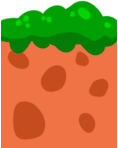
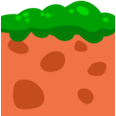
update pit and boxes bg

diff --git a/src/app/scenes/utils.ts b/src/app/scenes/utils.ts
@@ -1,4 +1,3 @@
-import gsap from "gsap";
 import * as PIXI from "pixi.js";
 import { appConfig } from "../../app";
 import { Character } from "../entities/character/character";
@@ -38,64 +37,36 @@ const cloudsData = [
 ];
 
 export function initGameScene(container: Game) {
-  const topBar = new TopBarContainer(0, 0, window.innerWidth, appConfig.constants.BASE_SIZE);
-  const character = new Character(container, 0, appConfig.constants.APP_HEIGHT - appConfig.constants.GROUND_HEIGHT - appConfig.constants.BASE_SIZE, 1, 1, "assets/img/character.png");
-  const ground = new Ground(container);
-  const finishLine = createSpriteFromImage(
-    "assets/img/finish-line.png",
-    appConfig.constants.BASE_SIZE,
-    appConfig.constants.APP_HEIGHT / 2,
-    appConfig.constants.GAME_WIDTH - window.screen.width - appConfig.constants.BASE_SIZE * 3,
-    appConfig.constants.APP_HEIGHT / 2 - appConfig.constants.GROUND_HEIGHT
-  );
+  const { APP_HEIGHT, APP_WIDTH, BASE_SIZE, GROUND_HEIGHT, GAME_WIDTH, STAGE_SIZE } = appConfig.constants;
 
-  const clouds: PIXI.Sprite[] = cloudsData.map((item: CloudConfig, index) => {
-    return new Cloud(container.width, item, index).sprite;
-  });
+  const topBar = new TopBarContainer(0, 0, window.innerWidth, BASE_SIZE);
+  const character = new Character(container, 0, APP_HEIGHT - GROUND_HEIGHT - BASE_SIZE, 1, 1, "assets/img/character.png");
+  const ground = new Ground(container);
+  const finishLine = createSpriteFromImage("assets/img/finish-line.png", BASE_SIZE, APP_HEIGHT / 2, GAME_WIDTH - APP_WIDTH - BASE_SIZE * 3, APP_HEIGHT / 2 - GROUND_HEIGHT);
+
+  const clouds: PIXI.Sprite[] = cloudsData.map((item: CloudConfig, index) => new Cloud(GAME_WIDTH, item, index).sprite);
   const background = createSpriteFromImage("assets/img/base-bg.jpg", appConfig.constants.GAME_WIDTH, appConfig.constants.APP_HEIGHT, 0, 0);
-  const mountains = [
-    createSpriteFromImage("assets/img/mountain.png", appConfig.constants.GAME_WIDTH / 4, appConfig.constants.APP_HEIGHT / 2, 0, 100),
-    createSpriteFromImage("assets/img/mountain.png", appConfig.constants.GAME_WIDTH / 4, appConfig.constants.APP_HEIGHT / 2, appConfig.constants.GAME_WIDTH * 0.25, 100),
-    createSpriteFromImage("assets/img/mountain.png", appConfig.constants.GAME_WIDTH / 4, appConfig.constants.APP_HEIGHT / 2, appConfig.constants.GAME_WIDTH * 0.5, 100),
-    createSpriteFromImage("assets/img/mountain.png", appConfig.constants.GAME_WIDTH / 4, appConfig.constants.APP_HEIGHT / 2, appConfig.constants.GAME_WIDTH * 0.75, 100),
-  ];
+  const mountains = createMountains(GAME_WIDTH, STAGE_SIZE);
 
   container.character = character;
   container.topBar = topBar;
 
-  container.addChild(background, ...mountains, ground.sprite, ...clouds, topBar, finishLine);
+  container.addChild(background, ...mountains, ...ground.sprites, ...clouds, topBar, finishLine);
   ground.addPitsAndBoxes();
 
   return { container, background, mountains, clouds, character, ground, topBar, finishLine };
 }
 
 export function initMenuScene(container: PIXI.Container, toggleFullScreenCallback: () => void, startGameCallback: () => void) {
-  const sun = new PIXI.Graphics();
-  sun.beginFill(0xffff00);
-  sun.drawCircle(0, 0, appConfig.constants.BASE_SIZE * 0.75);
-  sun.endFill();
-  sun.x = appConfig.constants.BASE_SIZE * 1;
-  sun.y = appConfig.constants.BASE_SIZE * 1;
+  const { APP_HEIGHT, APP_WIDTH, BASE_SIZE, GROUND_HEIGHT, GROUND_LEVEL } = appConfig.constants;
+  const sun = createSun();
+  const background = createSpriteFromImage("assets/img/base-bg.jpg", APP_WIDTH, APP_HEIGHT, 0, 0);
+  const mountains = createMountains(APP_WIDTH, 2);
 
-  gsap.to(sun, { duration: 2, rotation: Math.PI * 2, ease: "power1.inOut", repeat: -1 });
+  const ground = createSpriteFromImage("assets/img/ground.png", APP_WIDTH, GROUND_HEIGHT, 0, GROUND_LEVEL);
+  const characterIcon = createSpriteFromImage("assets/img/character-icon.png", BASE_SIZE * 2, BASE_SIZE * 2, APP_WIDTH / 2 - BASE_SIZE, BASE_SIZE * 1.5);
 
-  const background = createSpriteFromImage("assets/img/base-bg.jpg", appConfig.constants.GAME_WIDTH, appConfig.constants.APP_HEIGHT, 0, 0);
-  const mountains = [
-    createSpriteFromImage("assets/img/mountain.png", appConfig.constants.APP_WIDTH / 2, appConfig.constants.APP_HEIGHT / 2, 0, 100),
-    createSpriteFromImage("assets/img/mountain.png", appConfig.constants.APP_WIDTH / 2, appConfig.constants.APP_HEIGHT / 2, (appConfig.constants.APP_HEIGHT / 2) * 0.25, 100),
-  ];
-  const ground = createSpriteFromImage("assets/img/ground.png", appConfig.constants.APP_WIDTH, appConfig.constants.GROUND_HEIGHT, 0, appConfig.constants.GROUND_LEVEL);
-  const characterIcon = createSpriteFromImage(
-    "assets/img/character-icon.png",
-    appConfig.constants.BASE_SIZE * 2,
-    appConfig.constants.BASE_SIZE * 2,
-    appConfig.constants.APP_WIDTH / 2 - appConfig.constants.BASE_SIZE,
-    appConfig.constants.BASE_SIZE * 1.5
-  );
-
-  const clouds: PIXI.Sprite[] = cloudsData.slice(0, 10).map((item: CloudConfig, index) => {
-    return new Cloud(appConfig.constants.APP_WIDTH, item, index).sprite;
-  });
+  const clouds: PIXI.Sprite[] = cloudsData.slice(0, 10).map((item: CloudConfig, index) => new Cloud(appConfig.constants.APP_WIDTH, item, index).sprite);
 
   const bestScore = JSON.parse(localStorage.getItem("bestScore") ?? "0");
   const titleText = createGradientText(`Running Sheep`.toUpperCase(), appConfig.constants.APP_WIDTH / 2, appConfig.constants.BASE_SIZE / 2);
@@ -104,4 +75,46 @@ export function initMenuScene(container: PIXI.Container, toggleFullScreenCallbac
   const fullscreenButton = toggleFullScreenButton(toggleFullScreenCallback);
 
   container.addChild(background, ...mountains, sun, ground, ...clouds, characterIcon, titleText, bestScoreText, startButton, fullscreenButton);
+}
+
+function createSun() {
+  const sun = new PIXI.Graphics();
+  sun.beginFill(0xffff00);
+  sun.drawCircle(0, 0, appConfig.constants.BASE_SIZE * 0.75);
+  sun.endFill();
+  sun.x = appConfig.constants.BASE_SIZE * 1;
+  sun.y = appConfig.constants.BASE_SIZE * 1;
+
+  return sun;
+}
+
+function createMountains(containerWidth: number, count: number) {
+  const mountains: PIXI.Sprite[] = [];
+  const { APP_HEIGHT } = appConfig.constants;
+  const mountainHeight = APP_HEIGHT / 2;
+  const mountainWidth = containerWidth / count;
+
+  for (let i = 0; i < count; i++) {
+    const mountainPosX = (containerWidth / count) * i;
+
+    const mountain = createSpriteFromImage("assets/img/mountain.png", mountainWidth, mountainHeight, mountainPosX, 100);
+    mountains.push(mountain);
+  }
+
+  return mountains;
+}
+
+export function createLevelGround(containerWidth: number, count: number) {
+  const grounds: PIXI.Sprite[] = [];
+  const { GROUND_HEIGHT, GROUND_LEVEL } = appConfig.constants;
+  const groundWidth = containerWidth / count;
+
+  for (let i = 0; i < count; i++) {
+    const groundPosX = (containerWidth / count) * i;
+
+    const ground = createSpriteFromImage("assets/img/ground.png", groundWidth, GROUND_HEIGHT, groundPosX, GROUND_LEVEL);
+    grounds.push(ground);
+  }
+
+  return grounds;
 }

diff --git a/src/app/appConfig.ts b/src/app/appConfig.ts
@@ -5,6 +5,7 @@ interface AppConfigurationInterface {
 }
 
 export type AppConfigObject = {
+  STAGE_SIZE: number;
   APP_WIDTH: number;
   GAME_WIDTH: number;
   APP_HEIGHT: number;
@@ -13,7 +14,6 @@ export type AppConfigObject = {
   BASE_SIZE: number;
   VERTICAL_MOVE_STEP: number;
   HORIZONTAL_MOVE_STEP: number;
-  SCALING_FACTOR: number;
   FINISH_POINT: number;
 };
 
@@ -21,17 +21,11 @@ export class AppConfiguration implements AppConfigurationInterface {
   private userAgent: string;
   private isMobileDevice: boolean;
   private pixelRatio: number;
-  private initialWindowHeight: number;
-  private initialWindowWidth: number;
-
   public isLandscapeOrientation: boolean;
   public isFullScreen: boolean = false;
   public constants!: AppConfigObject;
-  public scalingFactor: number = window.screen.height / window.innerHeight;
 
   constructor() {
-    this.initialWindowHeight = window.innerHeight;
-    this.initialWindowWidth = window.innerWidth;
     this.userAgent = navigator.userAgent;
     this.isMobileDevice = this.detectMobileDevice();
     this.isLandscapeOrientation = this.detectLandscapeOrientation();
@@ -44,41 +38,42 @@ export class AppConfiguration implements AppConfigurationInterface {
     this.isMobileDevice = this.detectMobileDevice();
     this.isLandscapeOrientation = this.detectLandscapeOrientation();
     this.pixelRatio = window.devicePixelRatio;
-
-    let gameWidth;
     let appHeight;
     let baseSize;
     let verticalMoveStep;
     let horizontalMoveStep;
+    let stageSize;
 
     if (this.isMobileDevice) {
       if (this.isLandscapeOrientation) {
-        gameWidth = window.innerWidth * 6;
+        stageSize = 10;
         appHeight = this.isFullScreen ? window.screen.height : window.innerHeight;
         baseSize = 40;
         verticalMoveStep = 40;
         horizontalMoveStep = 2;
       } else {
-        gameWidth = window.innerWidth * 10;
+        stageSize = 15;
         appHeight = this.isFullScreen ? window.screen.height : window.innerHeight;
         baseSize = 50;
         verticalMoveStep = 50;
         horizontalMoveStep = 2;
       }
     } else {
+      stageSize = 10;
       baseSize = 100;
       verticalMoveStep = 100;
-      gameWidth = window.innerWidth * 6;
       appHeight = this.isFullScreen ? window.screen.height : window.innerHeight;
       horizontalMoveStep = 5;
     }
 
+    const gameWidth = window.innerWidth * stageSize;
     const groundHeight = 3 * baseSize;
     const groundLevel = appHeight - groundHeight;
     const appWidth = this.isFullScreen ? window.screen.width : window.innerWidth;
     const finishPoint = gameWidth - appWidth;
 
     this.constants = {
+      STAGE_SIZE: stageSize,
       APP_WIDTH: appWidth,
       GAME_WIDTH: gameWidth,
       APP_HEIGHT: appHeight,
@@ -87,7 +82,6 @@ export class AppConfiguration implements AppConfigurationInterface {
       BASE_SIZE: baseSize,
       VERTICAL_MOVE_STEP: verticalMoveStep,
       HORIZONTAL_MOVE_STEP: horizontalMoveStep,
-      SCALING_FACTOR: this.scalingFactor,
       FINISH_POINT: finishPoint,
     };
   }

diff --git a/src/app/entities/world/ground.ts b/src/app/entities/world/ground.ts
@@ -1,14 +1,15 @@
 import * as PIXI from "pixi.js";
 import { appConfig } from "../../../app";
-import { createSpriteFromImage, roundToCeilWithZeroLastDigit } from "../../lib/utils";
+import { roundToCeilWithZeroLastDigit } from "../../lib/utils";
+import { createLevelGround } from "../../scenes/utils";
 import { Box } from "../obstacles/box";
 import { Pit } from "../obstacles/pit";
 
 export interface GroundInterface {
-  sprite: PIXI.Sprite;
+  sprites: PIXI.Sprite[];
   addPitsAndBoxes(): void;
   getPits(): Pit[];
-  getBoxes(): Pit[];
+  getBoxes(): Box[];
 }
 const groundPitSizes = [
   { w: 2, h: 2 },
@@ -19,7 +20,7 @@ const groundPitSizes = [
 ];
 
 const groundBoxSizes = [
-  { w: 1, h: 2 },
+  { w: 1, h: 3 },
   { w: 1, h: 1 },
   { w: 1, h: 2 },
   { w: 1, h: 1 },
@@ -31,11 +32,11 @@ export class Ground implements GroundInterface {
   private readonly container: PIXI.Container;
   private readonly pits: Pit[] = [];
   private readonly boxes: Box[] = [];
-  public readonly sprite: PIXI.Sprite;
+  public readonly sprites: PIXI.Sprite[] = [];
 
   constructor(container: PIXI.Container) {
     this.container = container;
-    this.sprite = createSpriteFromImage("assets/img/ground.png", appConfig.constants.GAME_WIDTH, appConfig.constants.GROUND_HEIGHT, 0, appConfig.constants.GROUND_LEVEL);
+    this.sprites = createLevelGround(appConfig.constants.GAME_WIDTH, appConfig.constants.STAGE_SIZE);
   }
 
   public addPitsAndBoxes(): void {
@@ -43,18 +44,18 @@ export class Ground implements GroundInterface {
 
     groundPitSizes.forEach((item, index) => {
       const pitX = roundToCeilWithZeroLastDigit(window.innerWidth + index * spaceBetweenObstacles * 2);
-      const pitY = appConfig.constants.APP_HEIGHT - appConfig.constants.GROUND_HEIGHT;
-      const pit = new Pit(this.container, pitX, pitY, item.w, item.h, "assets/img/pit.jpg");
+      const pitY = appConfig.constants.GROUND_LEVEL;
+      const pit = new Pit(this.container, pitX, pitY, item.w, item.h, "assets/img/base-bg.jpg");
       this.pits.push(pit);
-      this.container.addChild(pit.sprite);
+      this.container.addChild(...pit.sprites);
     });
 
     groundBoxSizes.forEach((item, index) => {
       const boxX = roundToCeilWithZeroLastDigit(window.innerWidth + index * spaceBetweenObstacles * 2 + spaceBetweenObstacles);
       const boxY = appConfig.constants.GROUND_LEVEL - appConfig.constants.BASE_SIZE * item.h;
-      const box = new Box(this.container, boxX, boxY, item.w, item.h, "assets/img/box.png");
+      const box = new Box(this.container, boxX, boxY, item.w, item.h, "assets/img/box-light.png");
       this.boxes.push(box);
-      this.container.addChild(box.sprite);
+      this.container.addChild(...box.sprites);
     });
   }
 

diff --git a/src/app/entities/obstacles/box.ts b/src/app/entities/obstacles/box.ts
@@ -1,10 +1,54 @@
 import * as PIXI from "pixi.js";
+import { appConfig } from "../../../app";
+import { createSpriteFromImage } from "../../lib/utils";
 import { Entity, EntityInterface } from "../base/base";
 
-export interface BoxInterface extends EntityInterface {}
+export interface BoxInterface extends EntityInterface {
+  sprites: PIXI.Sprite[];
+}
 
 export class Box extends Entity {
+  public sprites: PIXI.Sprite[] = [];
   constructor(app: PIXI.Container, x: number, y: number, widthCount: number, heightCount: number, resource: string) {
     super(app, x, y, widthCount, heightCount, resource);
+
+    for (let i = 0; i < heightCount; i++) {
+      if (i === 0) {
+        for (let j = 0; j < widthCount; j++) {
+          const topPart = this.generateTopPart(x + j * appConfig.constants.BASE_SIZE, y);
+          this.sprites.push(topPart);
+        }
+        continue;
+      }
+
+      if (i % 2 === 0) {
+        for (let j = 0; j < widthCount; j++) {
+          const topPart = this.generateLightPart(x + j * appConfig.constants.BASE_SIZE, y + appConfig.constants.BASE_SIZE * i);
+
+          this.sprites.push(topPart);
+        }
+        continue;
+      }
+
+      if (i % 2 !== 0) {
+        for (let j = 0; j < widthCount; j++) {
+          const topPart = this.generateDarkPart(x + j * appConfig.constants.BASE_SIZE, y + appConfig.constants.BASE_SIZE * i);
+
+          this.sprites.push(topPart);
+        }
+      }
+    }
+  }
+
+  private generateDarkPart(x: number, y: number) {
+    return createSpriteFromImage("assets/img/box-dark.png", appConfig.constants.BASE_SIZE, appConfig.constants.BASE_SIZE, x, y);
+  }
+
+  private generateLightPart(x: number, y: number) {
+    return createSpriteFromImage("assets/img/box-light.png", appConfig.constants.BASE_SIZE, appConfig.constants.BASE_SIZE, x, y);
+  }
+
+  private generateTopPart(x: number, y: number) {
+    return createSpriteFromImage("assets/img/box.png", appConfig.constants.BASE_SIZE, appConfig.constants.BASE_SIZE, x, y);
   }
 }

diff --git a/src/app/entities/obstacles/pit.ts b/src/app/entities/obstacles/pit.ts
@@ -1,10 +1,39 @@
 import * as PIXI from "pixi.js";
+import { appConfig } from "../../../app";
+import { createSpriteFromImage } from "../../lib/utils";
 import { Entity, EntityInterface } from "../base/base";
 
-export interface PitInterface extends EntityInterface {}
+export interface PitInterface extends EntityInterface {
+  sprites: PIXI.Sprite[];
+}
 
 export class Pit extends Entity {
+  public sprites: PIXI.Sprite[] = [];
   constructor(app: PIXI.Container, x: number, y: number, widthCount: number, heightCount: number, resource: string) {
     super(app, x, y, widthCount, heightCount, resource);
+
+    for (let i = 0; i < heightCount; i++) {
+      if (i === 0) {
+        for (let j = 0; j < widthCount; j++) {
+          const topPart = this.generateTopPart(x + j * appConfig.constants.BASE_SIZE, y);
+          this.sprites.push(topPart);
+        }
+        continue;
+      }
+
+      for (let j = 0; j < widthCount; j++) {
+        const topPart = this.generateBottomtPart(x + j * appConfig.constants.BASE_SIZE, y + appConfig.constants.BASE_SIZE * i);
+
+        this.sprites.push(topPart);
+      }
+    }
+  }
+
+  private generateTopPart(x: number, y: number) {
+    return createSpriteFromImage("assets/img/top-pit.png", appConfig.constants.BASE_SIZE, appConfig.constants.BASE_SIZE, x, y);
+  }
+
+  private generateBottomtPart(x: number, y: number) {
+    return createSpriteFromImage("assets/img/pit.jpg", appConfig.constants.BASE_SIZE, appConfig.constants.BASE_SIZE, x, y);
   }
 }

diff --git a/src/app/entities/world/cloud.ts b/src/app/entities/world/cloud.ts
@@ -22,10 +22,10 @@ export class Cloud {
     const cloudWidth = appConfig.constants.BASE_SIZE * config.width;
 
     const posY = (Math.random() * appConfig.constants.APP_HEIGHT) / 3;
-    this.posX = appConfig.constants.BASE_SIZE * 10 + index * 5 * appConfig.constants.BASE_SIZE;
+    this.posX = index * 5 * appConfig.constants.BASE_SIZE;
 
     this.sprite = createSpriteFromImage(`assets/img/clouds/${config.imageId}.png`, cloudWidth, cloudHeight, this.posX, posY);
-    const initialDuration = (this.posX / this.containerWidth) * 20;
+    const initialDuration = (this.posX / this.containerWidth) * 100;
 
     this.animateSprite(initialDuration);
   }
